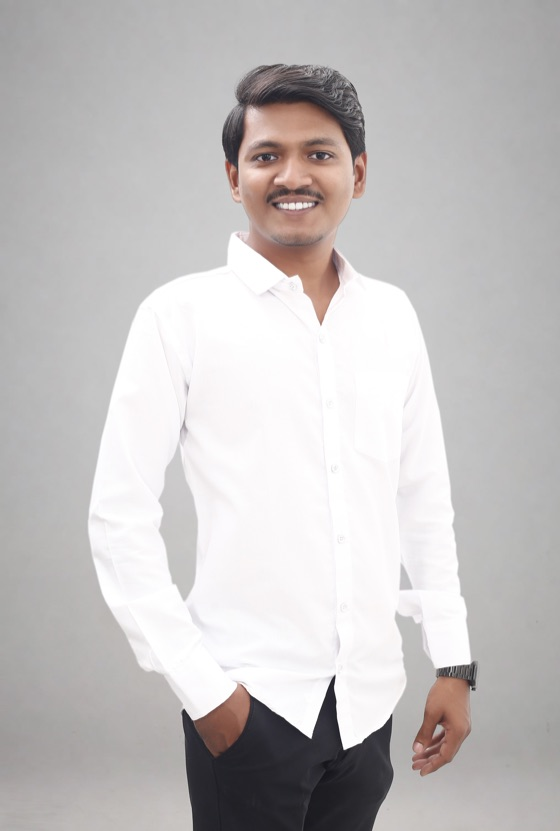
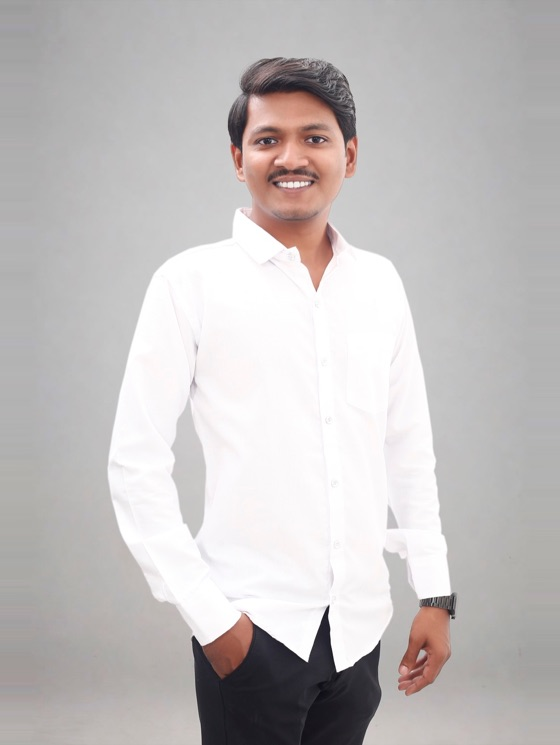
Auto photo change feature added

diff --git a/styles.css b/styles.css
@@ -414,8 +414,11 @@ main {
   width: fit-content;
   max-width: 100%;
   margin: 0 auto;
-  display: flex;
-  justify-content: center;
+  /* Both shots share one grid cell so they stack for the cross-fade. Unlike
+     absolute positioning this still contributes to the card's intrinsic size,
+     so `fit-content` above resolves to the photo rather than collapsing. */
+  display: grid;
+  justify-items: center;
   position: relative;
 }
 
@@ -431,22 +434,62 @@ main {
 
 .profile-photo {
   /* Height is pinned to what the old 4/5 box occupied, so the hero keeps its
-     original proportions. The ratio then matches the source's own 890x1321,
-     which leaves `cover` nothing to trim — the whole portrait shows, and the
-     image simply sits narrower than the panel rather than being cut to fill it.
-     Keep the ratio in step with the image file: drift is what starts cropping. */
+     original proportions. Both files are cut to 890x1184, so one ratio serves
+     every slide, `cover` has nothing to trim, and the frame is identical from
+     shot to shot. Keep new photos to that ratio — pad rather than crop them,
+     the way the studio shot's own grey backdrop was extended sideways. */
   height: calc(var(--photo-w) * 1.25);
   width: auto;
   max-width: 100%;
   margin: 0 auto;
-  aspect-ratio: 890 / 1321;
+  aspect-ratio: 890 / 1184;
+  grid-area: 1 / 1;
   object-fit: cover;
   object-position: center;
   border-radius: var(--radius-lg);
   box-shadow: 0 14px 34px rgba(9, 19, 45, 0.35);
-  -webkit-mask-image: radial-gradient(125% 125% at 50% 50%, #000 64%, rgba(0, 0, 0, 0.9) 78%, rgba(0, 0, 0, 0.5) 91%, transparent 100%);
-  mask-image: radial-gradient(125% 125% at 50% 50%, #000 64%, rgba(0, 0, 0, 0.9) 78%, rgba(0, 0, 0, 0.5) 91%, transparent 100%);
+  /* No soft-edge mask here on purpose: the studio shot's light grey backdrop
+     dissolved into the navy hero at the edges and read as a washed-out white
+     halo. A clean rounded edge keeps the backdrop looking deliberate. */
   display: block;
+  animation: photo-cycle 6s ease-in-out infinite;
+}
+
+.profile-photo:nth-of-type(1) {
+  /* Base state, not just a starting frame: it is what shows when the animation
+     is off (reduced motion, print, no support) — see the overrides below. */
+  opacity: 1;
+}
+
+.profile-photo:nth-of-type(2) {
+  opacity: 0;
+  /* Negative delay starts it half a cycle in, so it is already mid-gap when the
+     first slide is showing — no blank beat before the first hand-off. */
+  animation-delay: -3s;
+}
+
+/* 3s held per shot out of a 6s loop, with the hand-off inside the last ~0.4s so
+   the cross-fade reads as a dissolve rather than a blink. */
+@keyframes photo-cycle {
+  0%,
+  43% {
+    opacity: 1;
+  }
+  50%,
+  93% {
+    opacity: 0;
+  }
+  100% {
+    opacity: 1;
+  }
+}
+
+/* Motion is decorative here — the biodata reads identically on one photo, so
+   honour the request to stop it and just hold the first shot. */
+@media (prefers-reduced-motion: reduce) {
+  .profile-photo {
+    animation: none;
+  }
 }
 
 .section-head h2,
@@ -799,13 +842,15 @@ main {
     display: none;
   }
 
-  /* Print rasterises the soft-edge mask as a dither pattern, which shows up as
-     visible speckling over the photo. Hard edges reproduce cleanly on paper. */
+  /* A drop shadow only muddies the photo's edge on paper; a hairline reads as
+     the intended frame instead. */
   .profile-photo {
-    -webkit-mask-image: none;
-    mask-image: none;
     box-shadow: none;
     border: 1px solid #cbd5e1;
+    /* Paper cannot rotate, and without this the print lands on whatever frame
+       the loop happened to be on — including a half-faded one. Stopping the
+       animation falls back to the base opacities, so slide 1 always prints. */
+    animation: none;
   }
 
   /* Tap targets are meaningless on paper and only add vertical bloat. */

diff --git a/marathi/index.html b/marathi/index.html
@@ -102,6 +102,9 @@
           </div>
 
           <aside class="hero-panel">
+            <!-- The two shots cross-fade on a CSS-only 6s loop, 3s each. The
+                 second is decorative: it is the same person, so announcing it
+                 again would only repeat the first one's alt text. -->
             <div class="photo-card">
               <img
                 class="profile-photo"
@@ -109,10 +112,22 @@
                 srcset="../assets/Biodata_Image-560.jpg 560w, ../assets/Biodata_Image.jpg 890w"
                 sizes="(max-width: 700px) 62vw, 280px"
                 width="890"
-                height="1321"
+                height="1184"
                 alt="यश लोटके"
                 loading="eager"
                 fetchpriority="high"
+                decoding="async"
+              />
+              <img
+                class="profile-photo"
+                src="../assets/Biodata_Image_1-560.jpg"
+                srcset="../assets/Biodata_Image_1-560.jpg 560w, ../assets/Biodata_Image_1.jpg 890w"
+                sizes="(max-width: 700px) 62vw, 280px"
+                width="890"
+                height="1184"
+                alt=""
+                aria-hidden="true"
+                loading="lazy"
                 decoding="async"
               />
             </div>

diff --git a/english/index.html b/english/index.html
@@ -103,6 +103,9 @@
           </div>
 
           <aside class="hero-panel">
+            <!-- The two shots cross-fade on a CSS-only 6s loop, 3s each. The
+                 second is decorative: it is the same person, so announcing it
+                 again would only repeat the first one's alt text. -->
             <div class="photo-card">
               <img
                 class="profile-photo"
@@ -110,10 +113,22 @@
                 srcset="../assets/Biodata_Image-560.jpg 560w, ../assets/Biodata_Image.jpg 890w"
                 sizes="(max-width: 700px) 62vw, 280px"
                 width="890"
-                height="1321"
+                height="1184"
                 alt="Yash Lotake"
                 loading="eager"
                 fetchpriority="high"
+                decoding="async"
+              />
+              <img
+                class="profile-photo"
+                src="../assets/Biodata_Image_1-560.jpg"
+                srcset="../assets/Biodata_Image_1-560.jpg 560w, ../assets/Biodata_Image_1.jpg 890w"
+                sizes="(max-width: 700px) 62vw, 280px"
+                width="890"
+                height="1184"
+                alt=""
+                aria-hidden="true"
+                loading="lazy"
                 decoding="async"
               />
             </div>
